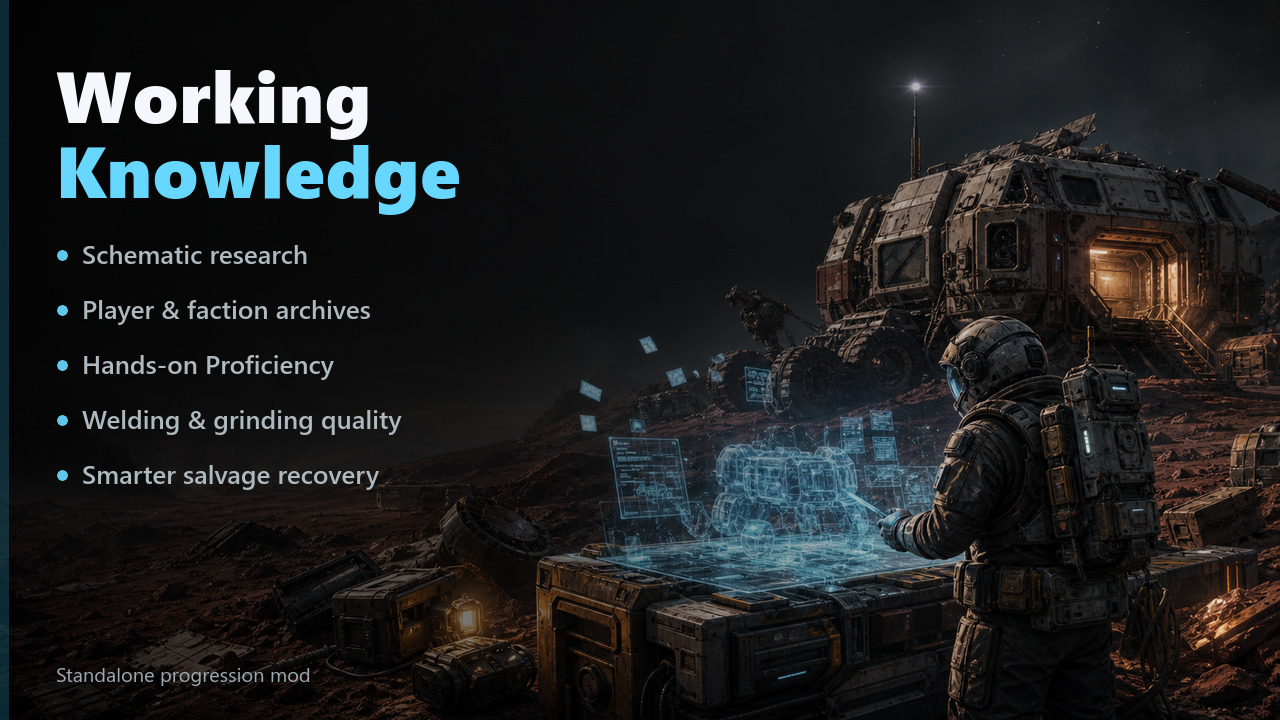
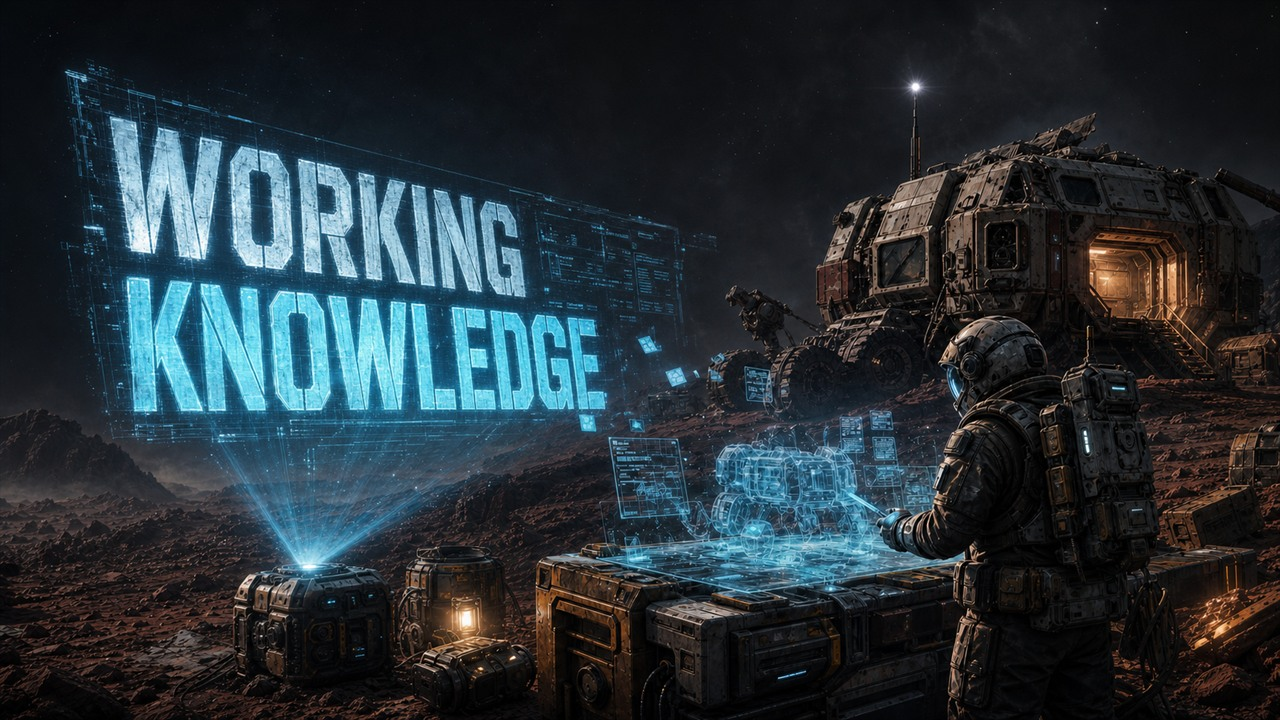
art: refresh Working Knowledge thumbnail

diff --git a/docs/WorkingKnowledge/changelog.md b/docs/WorkingKnowledge/changelog.md
@@ -27,6 +27,8 @@ Kept complete vanilla variant sets in one schematic family. In particular, the S
 
 Regenerated vanilla research bindings, hidden unlockers, exact Data Schematics, the runtime catalog, block-variant overrides, radial-menu data, and balance audits from the current 1.210 game definitions.
 
+Replaced the Workshop thumbnail with cohesive field-engineering key art. The title is now an in-world holographic research projection instead of a flat text panel, with a simpler composition designed to remain recognizable at Workshop-card size.
+
 ## 0.13.0 - Extensible Schematic Groups
 
 Working Knowledge Layers can now extend the research model instead of assigning every supported block to one of the built-in schematic families.
